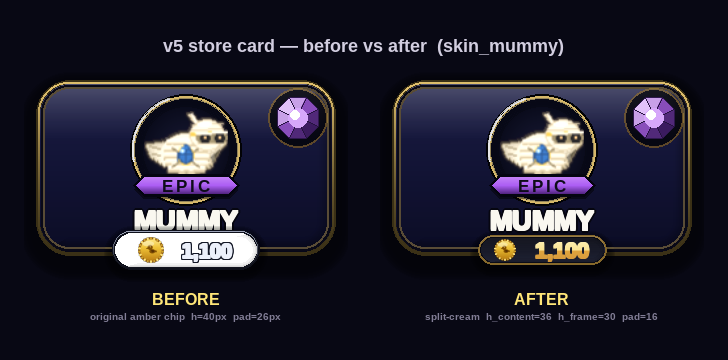
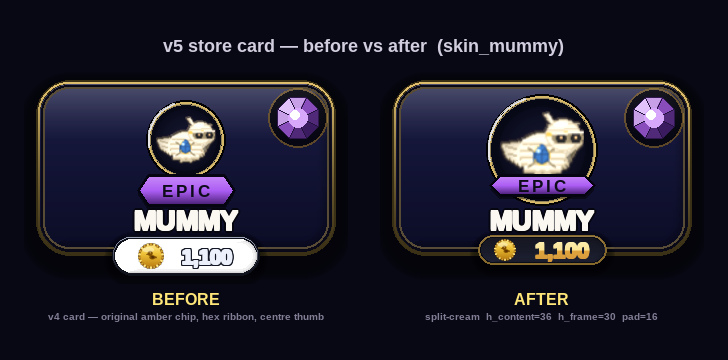
before/after: use _draw_card_v4_ref for the BEFORE panel
Replaces the v5 draw_card() call with the preserved v4 reference —
the card as it existed before any v5 store card redesign work.

Claude-Session: https://claude.ai/code/session_01DaGYw11VdAubog2VGiiucC

Changed region(s): [[0.1813, 0.2444, 0.3324, 0.5806], [0.1511, 0.6111, 0.3626, 0.7639], [0.0604, 0.8556, 0.4533, 0.9167]]

diff --git a/tools/_store_card_v5_before_after.py b/tools/_store_card_v5_before_after.py
@@ -39,8 +39,8 @@ def render_before():
     rect = pygame.Rect(sc.m(_INSET), sc.m(_INSET),
                        CARD_W - 2 * sc.m(_INSET),
                        ch - 2 * sc.m(_INSET))
-    sc.draw_card(surf, SID, rect, equipped=False, secret=False,
-                 variant=sc.PRICE_VARIANT)
+    sc._draw_card_v4_ref(surf, SID, rect, equipped=False, secret=False,
+                         variant=sc.PRICE_VARIANT)
     return surf
 
 
@@ -188,7 +188,7 @@ lbl_sm = hud_font(10, False)
 panel_y = MARGIN + HDR_H
 
 PANELS = [
-    (render_before(), "BEFORE", "original amber chip  h=40px  pad=26px"),
+    (render_before(), "BEFORE", "v4 card — original amber chip, hex ribbon, centre thumb"),
     (render_after(),  "AFTER",  f"split-cream  h_content={H_CONTENT}  h_frame={H_FRAME}  pad={PAD}"),
 ]
 
